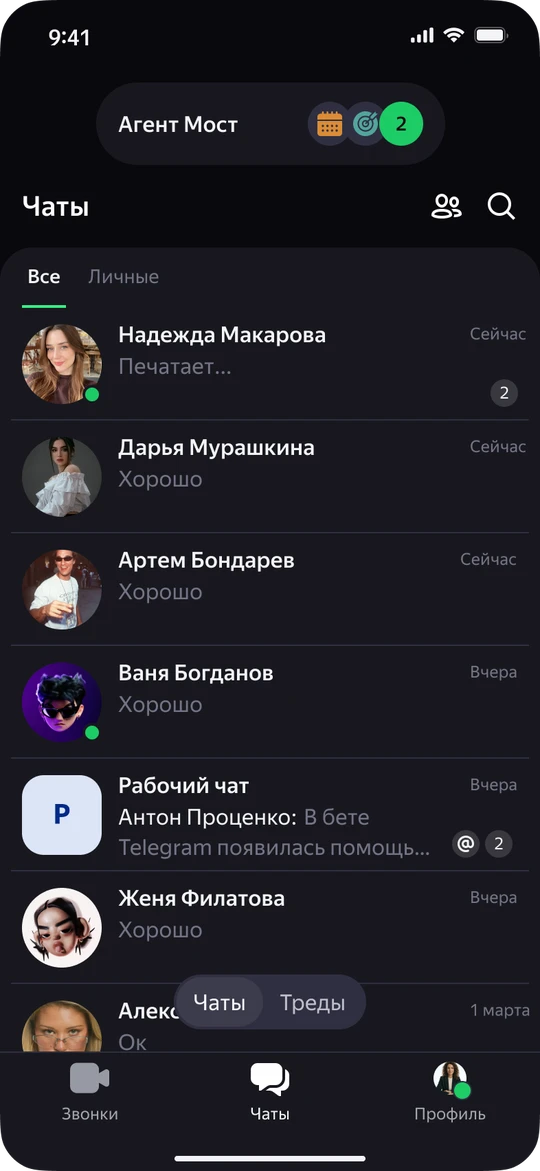
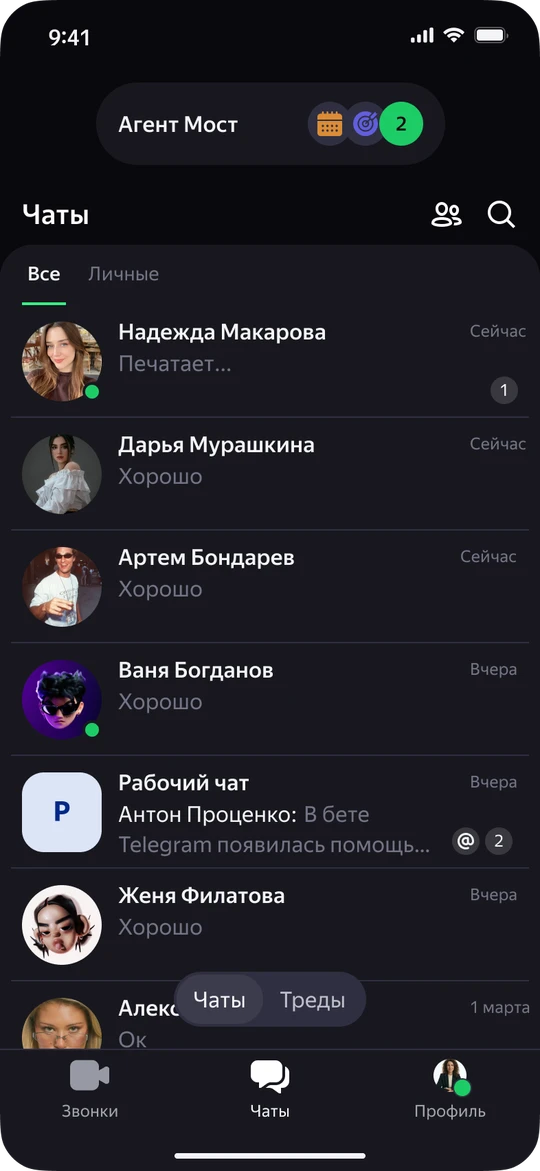
Телемост, создание задачи: обновлённые экраны чатов и «Планов»
Claude-Session: https://claude.ai/code/session_0159gEbhqVxRNJkDFKu62Ty1

diff --git a/telemost-case.html b/telemost-case.html
@@ -130,9 +130,9 @@
       <div class="tm-copy">
         <h3 class="mode-title"><span class="mode-n">02</span>Агент Мост: создание задачи</h3>
         <p class="tm-job"><span>Джоба</span>Быстро понять, что&nbsp;происходит сегодня, и&nbsp;не&nbsp;держать всё в&nbsp;голове</p>
-        <div class="tm-steps"><button type="button" class="tm-step on" data-go="0"><b>1</b>В&nbsp;чатах закреплён Агент Мост&nbsp;— с&nbsp;задачами на&nbsp;сегодня</button><button type="button" class="tm-step" data-go="1"><b>2</b>Пишешь агенту обычным сообщением, как&nbsp;человеку</button><button type="button" class="tm-step" data-go="2"><b>3</b>Агент сам создаёт задачу и&nbsp;ставит напоминание</button><button type="button" class="tm-step" data-go="3"><b>4</b>Задача появляется в&nbsp;«Планах» рядом с&nbsp;остальными делами</button></div>
+        <div class="tm-steps"><button type="button" class="tm-step on" data-go="0"><b>1</b>В&nbsp;чатах закреплён Агент Мост&nbsp;— с&nbsp;задачами на&nbsp;сегодня</button><button type="button" class="tm-step" data-go="1"><b>2</b>Пишешь агенту обычным сообщением, как&nbsp;человеку</button><button type="button" class="tm-step" data-go="2"><b>3</b>Агент сам создаёт задачу и&nbsp;ставит напоминание</button><button type="button" class="tm-step" data-go="3"><b>4</b>Задача появляется в&nbsp;«Планах» вместе с&nbsp;делами и&nbsp;встречами на&nbsp;сегодня</button></div>
       </div>
-      <div class="tm-stage"><div class="tm-bars"><i></i><i></i><i></i><i></i></div><div class="tm-phones real-set"><div class="tm-phone real on" data-i="1"><img src="assets/img/telemost/agent-task-1-chats.webp" alt="Список чатов с закреплённым Агентом Мостом" loading="lazy"></div><div class="tm-phone real" data-i="2"><img src="assets/img/telemost/agent-task-2-ask.webp" alt="Сообщение агенту про концерт ребёнка" loading="lazy"></div><div class="tm-phone real" data-i="3"><img src="assets/img/telemost/agent-task-3-created.webp" alt="Агент создал задачу и добавил её в календарь" loading="lazy"></div><div class="tm-phone real" data-i="4"><img src="assets/img/telemost/agent-task-4-plans.webp" alt="Вкладка «Планы» со списком задач" loading="lazy"></div></div></div>
+      <div class="tm-stage"><div class="tm-bars"><i></i><i></i><i></i><i></i></div><div class="tm-phones real-set"><div class="tm-phone real on" data-i="1"><img src="assets/img/telemost/agent-task-1-chats.webp?v=2" alt="Список чатов с закреплённым Агентом Мостом" loading="lazy"></div><div class="tm-phone real" data-i="2"><img src="assets/img/telemost/agent-task-2-ask.webp" alt="Сообщение агенту про концерт ребёнка" loading="lazy"></div><div class="tm-phone real" data-i="3"><img src="assets/img/telemost/agent-task-3-created.webp" alt="Агент создал задачу и добавил её в календарь" loading="lazy"></div><div class="tm-phone real" data-i="4"><img src="assets/img/telemost/agent-task-4-plans.webp?v=2" alt="Вкладка «Планы» со списком задач" loading="lazy"></div></div></div>
     </div>
     <div class="tm-chap" id="f-modes" data-chap>
       <div class="tm-copy">
